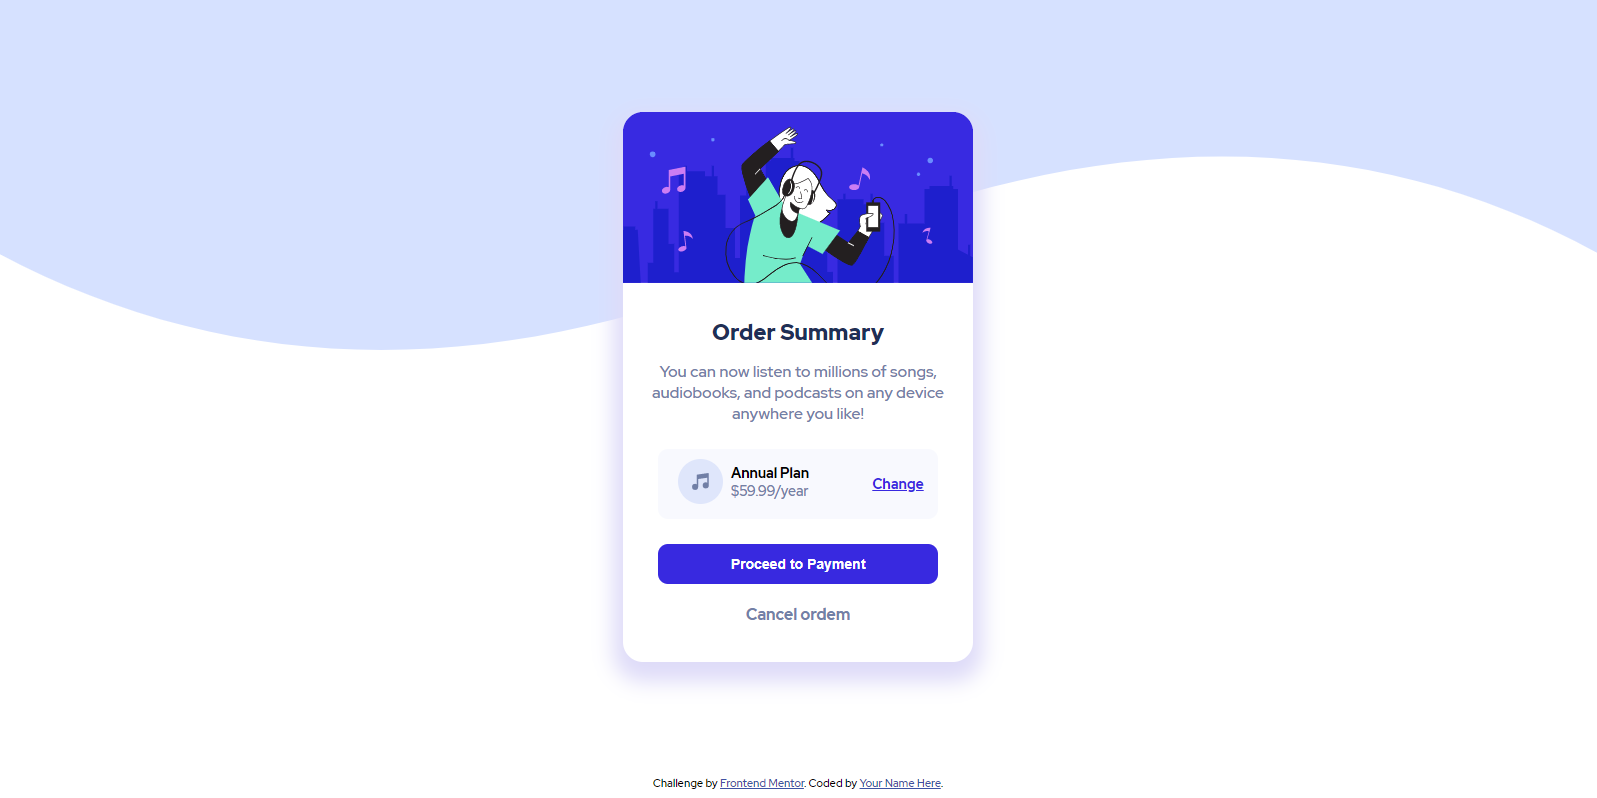
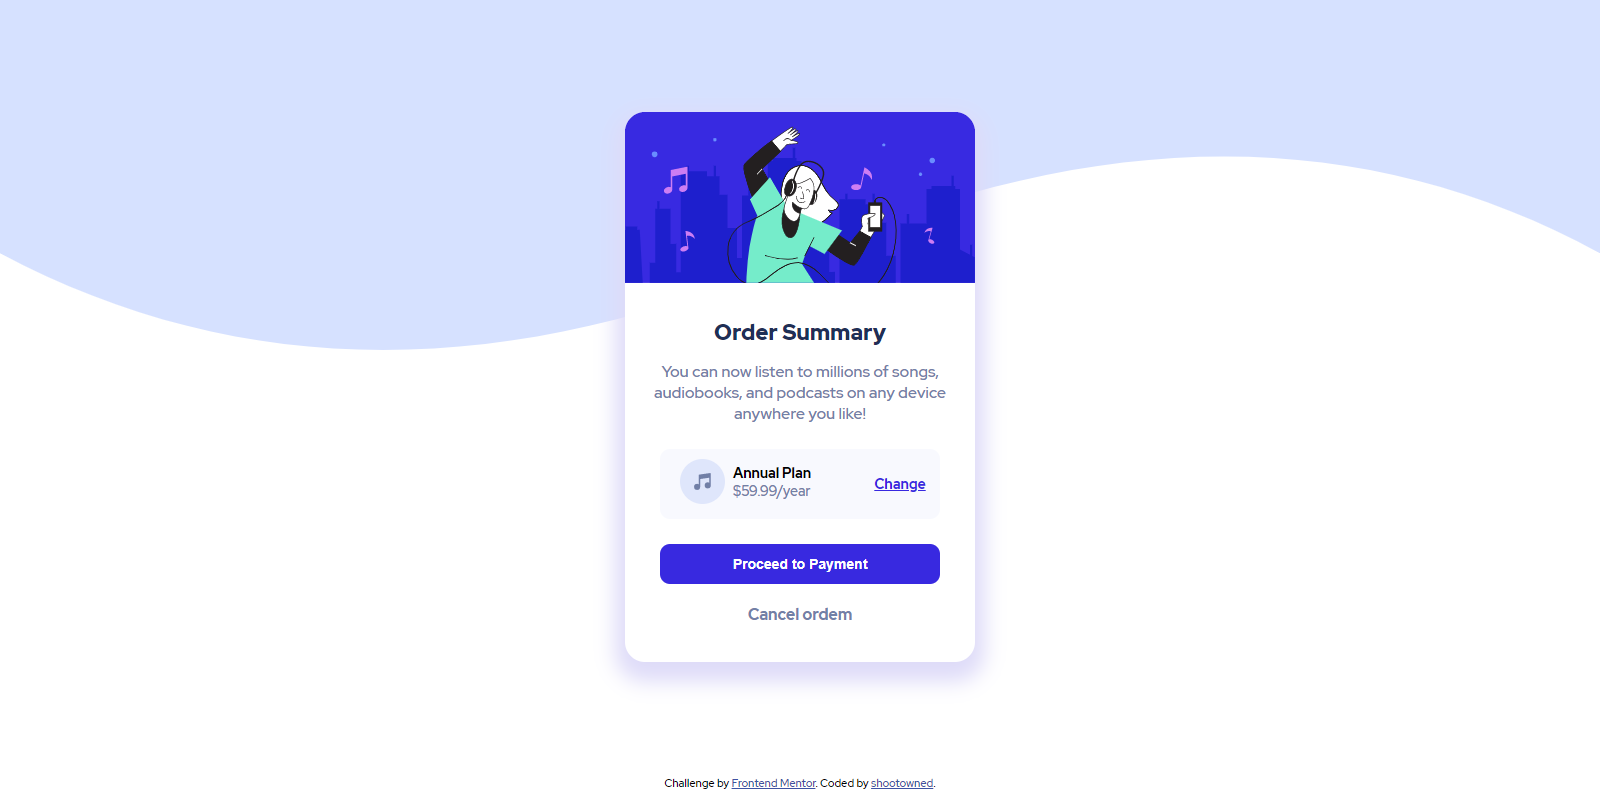
update footer

diff --git a/index.html b/index.html
@@ -51,7 +51,7 @@
   
   <div class="attribution">
     Challenge by <a href="https://www.frontendmentor.io?ref=challenge" target="_blank">Frontend Mentor</a>. 
-    Coded by <a href="#">Your Name Here</a>.
+    Coded by <a href="https://github.com/shootowned">shootowned</a>.
   </div>
 </body>
 </html>
